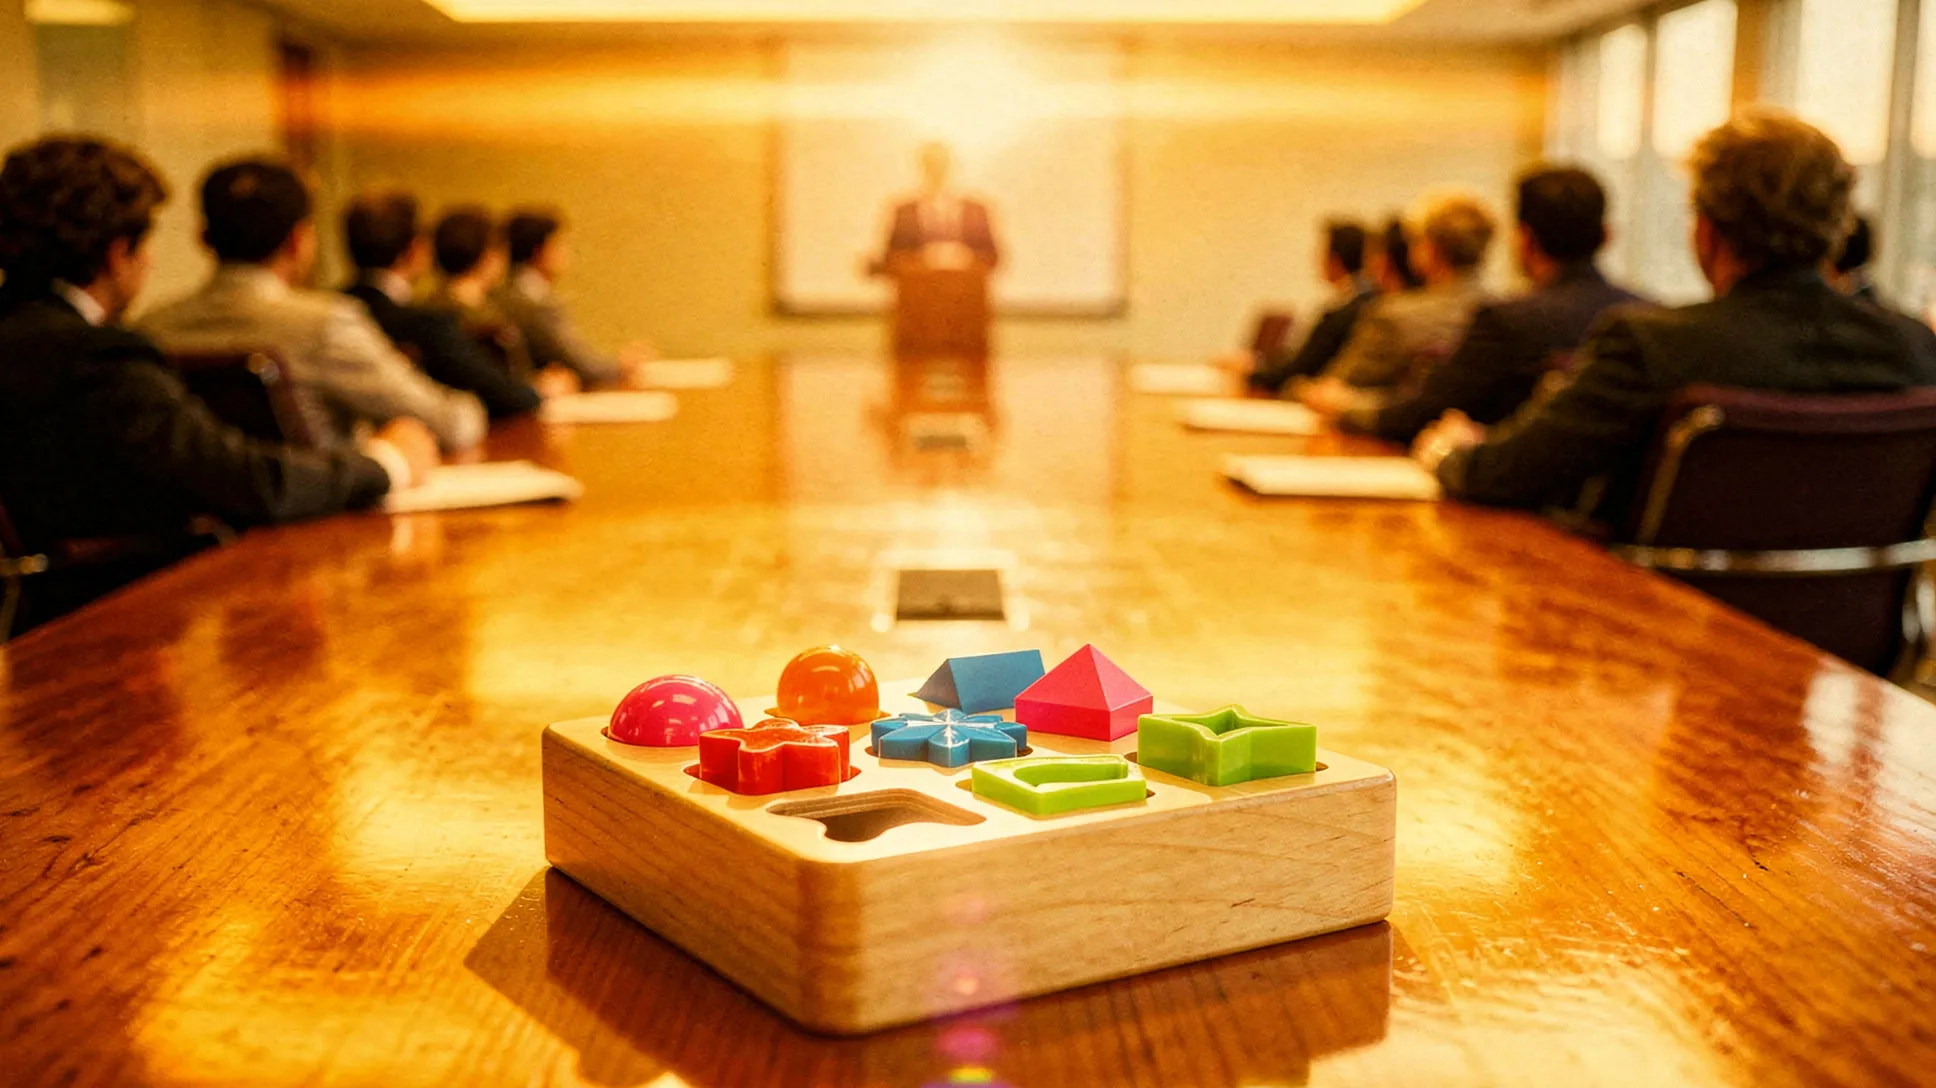
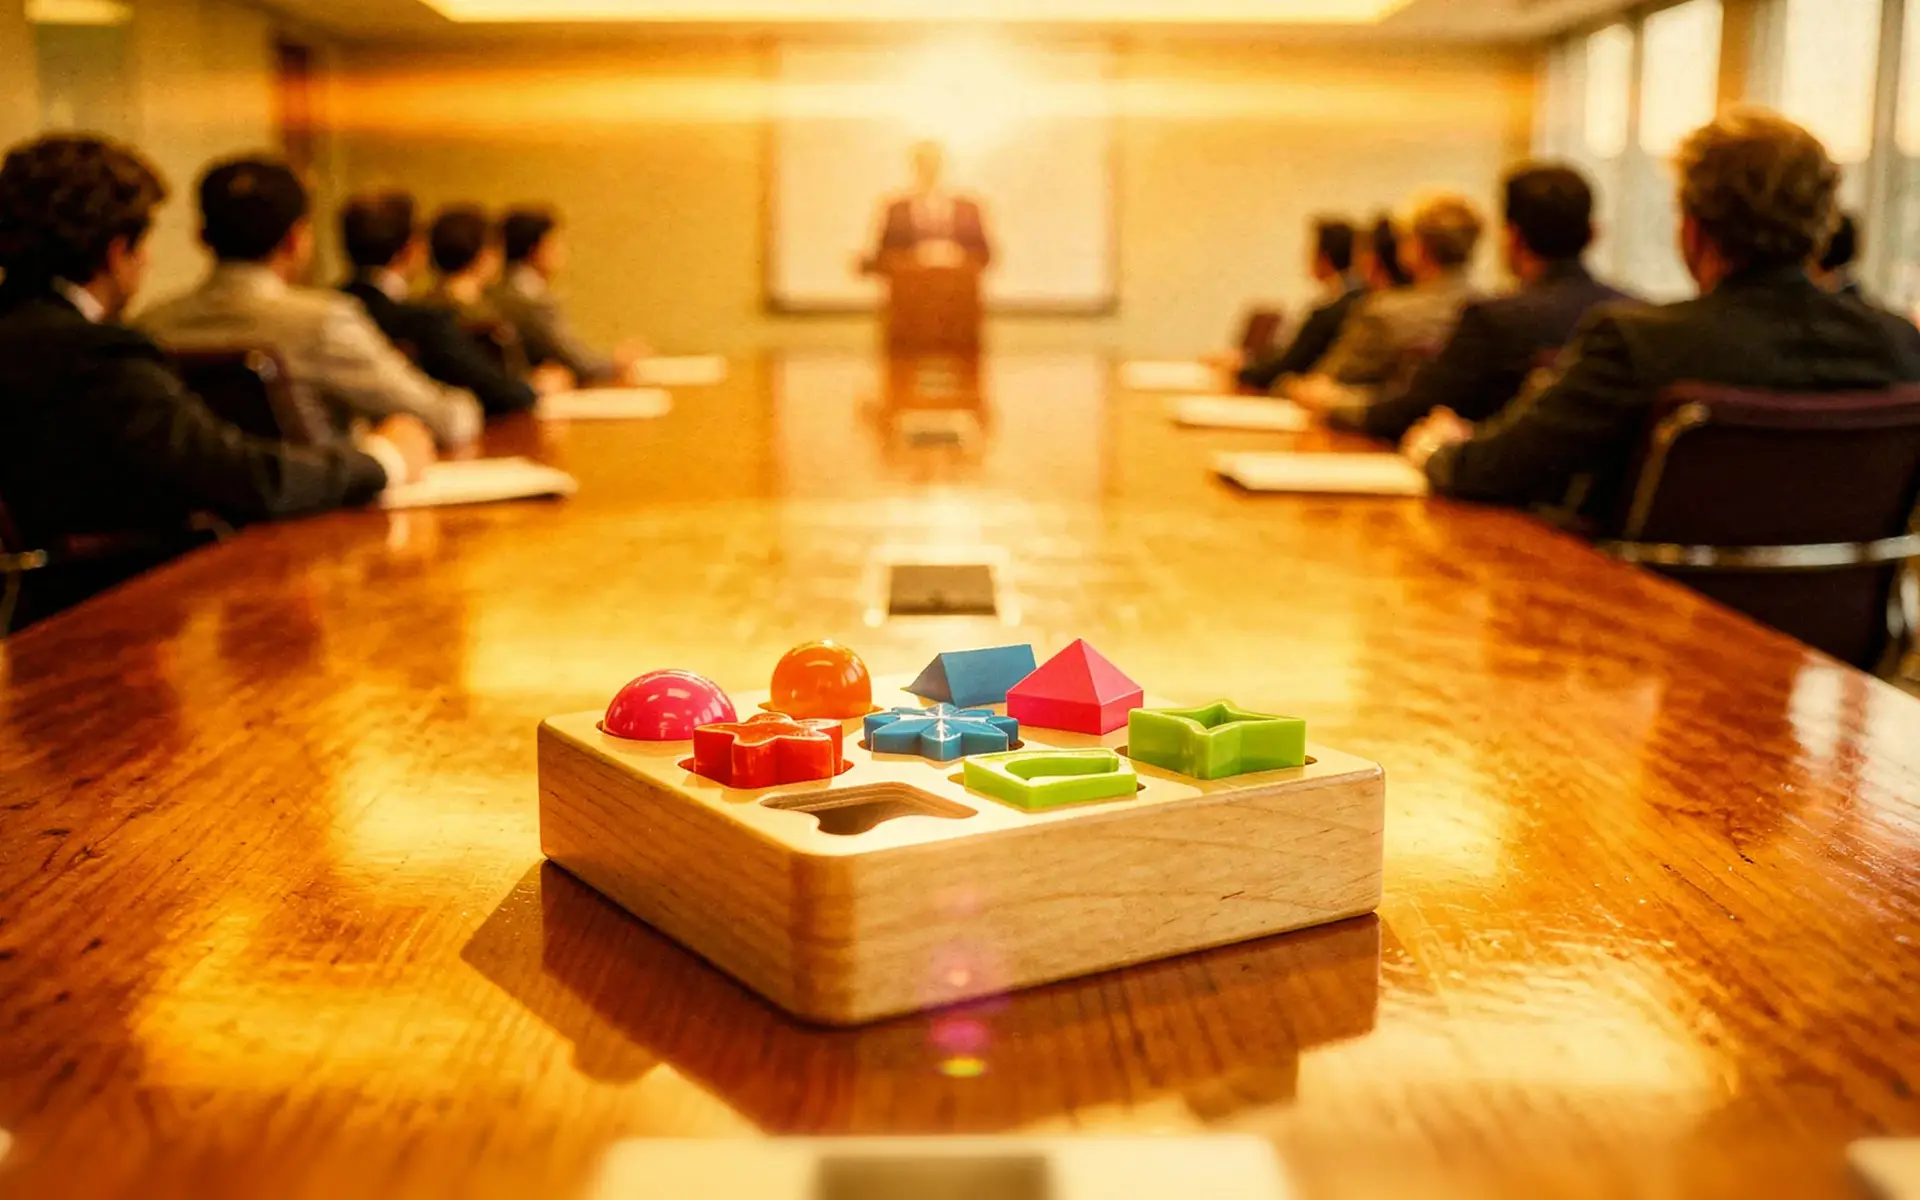
Webp hero images with mobile variants, sticky manifesto/quote-right, nav polish
- Replace jpg hero images with recropped webp versions (desktop + _m mobile)
- Random hero rotation on both desktop and mobile; business-district on first load
- Remove pin-manifesto wrapper — manifesto now position:sticky like quote-right
- Quote-right also simplified to position:sticky, footer scrolls over it
- Hero background-position set to center 85% to trim bottom and show more top
- Nav link hover: sliding bottom-bar effect (replaces opacity fade)
- Lang switcher active underline offset and thickness
- Nav logo 4px alignment tweak

Made-with: Cursor

diff --git a/script.js b/script.js
@@ -2,20 +2,36 @@
 
 /* ─────────────────────────────────────────────────────
    Hero background — random image on each page load
-   Desktop images only (no _m suffix).
+   Desktop and mobile each have their own image pool.
+   First-ever load always shows the business-district image.
    ───────────────────────────────────────────────────── */
 (function heroRandomBg() {
-  if (window.innerWidth <= 1024) return; // mobile uses its own image via CSS
+  const isMobile = window.innerWidth <= 1024;
 
-  const images = [
-    "assets/anew-summer.jpg",
-    "assets/anew-winter.jpg",
-    "assets/anew-boardroom.webp",
-    "assets/anew-brainstorm.webp",
-    "assets/anew-business-district.webp",
+  const desktopImages = [
+    'assets/anew-summer.webp',
+    'assets/anew-winter.webp',
+    'assets/anew-boardroom.webp',
+    'assets/anew-brainstorm.webp',
+    'assets/anew-business-district.webp',
   ];
 
-  const pick = images[Math.floor(Math.random() * images.length)];
+  const mobileImages = [
+    'assets/anew-summer_m.webp',
+    'assets/anew-winter_m.webp',
+    'assets/anew-boardroom_m.webp',
+    'assets/anew-brainstorm_m.webp',
+    'assets/anew-business-district_m.webp',
+  ];
+
+  const images = isMobile ? mobileImages : desktopImages;
+  const firstImage = isMobile
+    ? 'assets/anew-business-district_m.webp'
+    : 'assets/anew-business-district.webp';
+
+  const pick = localStorage.getItem('anew-hero-seen')
+    ? images[Math.floor(Math.random() * images.length)]
+    : (localStorage.setItem('anew-hero-seen', '1'), firstImage);
   const heroBg = document.querySelector(".s-hero__bg");
   if (heroBg) heroBg.style.backgroundImage = `url('${pick}')`;
 })();
@@ -104,15 +120,15 @@
 /* ─────────────────────────────────────────────────────
    Manifesto video — show/play on viewport enter, hide/pause on exit.
    Hidden by default so the fixed hero is visible on page load.
-   The IntersectionObserver on pin-manifesto drives both visibility
-   and playback: the video only appears when the manifesto area is
+   The IntersectionObserver on s-manifesto drives both visibility
+   and playback: the video only appears when the manifesto section is
    actually in the viewport.
    ───────────────────────────────────────────────────── */
 (function manifestoVideo() {
   const videoFixed = document.querySelector(".manifesto-video-fixed");
   const video = document.querySelector(".manifesto-video");
-  const pinManifesto = document.querySelector(".pin-manifesto");
-  if (!video || !videoFixed || !pinManifesto) return;
+  const manifesto = document.querySelector(".s-manifesto");
+  if (!video || !videoFixed || !manifesto) return;
 
   const observer = new IntersectionObserver(
     (entries) => {
@@ -131,7 +147,7 @@
     { threshold: 0 }, // fire as soon as any pixel enters / leaves
   );
 
-  observer.observe(pinManifesto);
+  observer.observe(manifesto);
 })();
 
 /* ─────────────────────────────────────────────────────

diff --git a/style.css b/style.css
@@ -6,9 +6,8 @@
      manifesto-video-fixed (fixed) z:3  — above hero; solid sections cover it
      s-about                       z:4  — slides over fixed hero + video
      s-quote-left                  z:5
-     pin-manifesto → s-manifesto sticky z:6  — transparent, reveals video
-     s-teams                       z:7  — slides over manifesto
-     s-quote-right (fixed bg)      z:8
+     pin-manifesto → s-manifesto sticky z:6  — transparent, reveals video     s-teams                       z:7  — slides over manifesto
+     s-quote-right (sticky in pin)    z:8
      s-footer                      z:9
    ──────────────────────────────────────────────────────── */
 
@@ -251,10 +250,10 @@ a {
 .s-hero__bg {
   position: absolute;
   inset: 0;
-  background-image: url("assets/anew-summer.jpg");
+  background-image: url("assets/anew-business-district.webp");
   background-size: cover;
-  background-position: center bottom;
-  transform-origin: center bottom;
+  background-position: center 85%;
+  transform-origin: center 85%;
   transform: scale(1.5); /* initial; script.js reduces to scale(1) */
   will-change: transform;
 }
@@ -347,7 +346,7 @@ a {
   transition: color 0.3s ease;
 }
 .nav__link::after {
-  content: '';
+  content: "";
   display: block;
   position: absolute;
   bottom: 0;
@@ -547,13 +546,8 @@ a {
 /* ══════════════════════════════════════════════════════
    4 · MANIFESTO  (sticky, 100 vh, transparent background)
    No background-image here — the fixed video at z:1
-   shows through. Teams (z:6) slides over the whole thing.
+   shows through. Teams (z:7) slides over it.
    ══════════════════════════════════════════════════════ */
-.pin-manifesto {
-  position: relative;
-  height: 150vh;
-}
-
 .s-manifesto {
   position: sticky;
   top: 0;
@@ -699,12 +693,11 @@ a {
 }
 
 /* ══════════════════════════════════════════════════════
-   6 · QUOTE RIGHT  (fixed background, right-aligned content)
-   As Teams scrolls off the top the fixed photo is revealed.
-   Footer entering from below gradually covers the photo.
+   6 · QUOTE RIGHT  (sticky — footer scrolls over it)
    ══════════════════════════════════════════════════════ */
 .s-quote-right {
-  position: relative;
+  position: sticky;
+  top: 0;
   height: 100vh;
   min-height: 768px;
   z-index: 8;
@@ -914,7 +907,7 @@ a {
     padding-bottom: 48px;
   }
   .s-hero__bg {
-    background-image: url("assets/anew-summer_m.jpg");
+    background-image: url("assets/anew-business-district_m.webp");
   }
   .hero__content {
     max-width: 100%;
@@ -957,6 +950,7 @@ a {
     padding-bottom: 384px;
   }
   .s-quote-right {
+    position: relative; /* disable sticky on mobile */
     align-items: flex-start;
     background-image: url("assets/maton+edgar-03_m.jpg");
     background-attachment: scroll;

diff --git a/index.html b/index.html
@@ -203,13 +203,8 @@
       <div class="manifesto-video__overlay"></div>
     </div>
 
-    <!-- ══════════════════════════════════════════════
-       PIN: manifesto stays fixed while Teams slides over
-       Scene height = 100vh manifesto + 100vh slide space
-       ══════════════════════════════════════════════ -->
-    <div class="pin-manifesto">
-      <!-- ── 4 · MANIFESTO (sticky, 100 vh, transparent bg) ── -->
-      <section class="s-manifesto" aria-label="Manifesto">
+    <!-- ── 4 · MANIFESTO (sticky — teams scrolls over) ── -->
+    <section class="s-manifesto" aria-label="Manifesto">
         <div class="s-manifesto__inner">
           <div class="logo-mark logo-mark--lg" aria-hidden="true">
             <img
@@ -247,8 +242,6 @@
           <div class="manifesto-progress__fill"></div>
         </div>
       </section>
-    </div>
-    <!-- /pin-manifesto -->
 
     <!-- ── 5 · TEAMS (slides over manifesto, reveals quote-right bg) -->
     <section class="s-teams" aria-label="Onze teams">
@@ -346,7 +339,7 @@
       </div>
     </section>
 
-    <!-- ── 6 · QUOTE RIGHT (fixed bg — footer pushes up) -->
+    <!-- ── 6 · QUOTE RIGHT (sticky — footer scrolls over) -->
     <section class="s-quote-right" aria-label="Quote Edgar Molenaars">
       <div class="container">
         <div class="quote-right__content">
